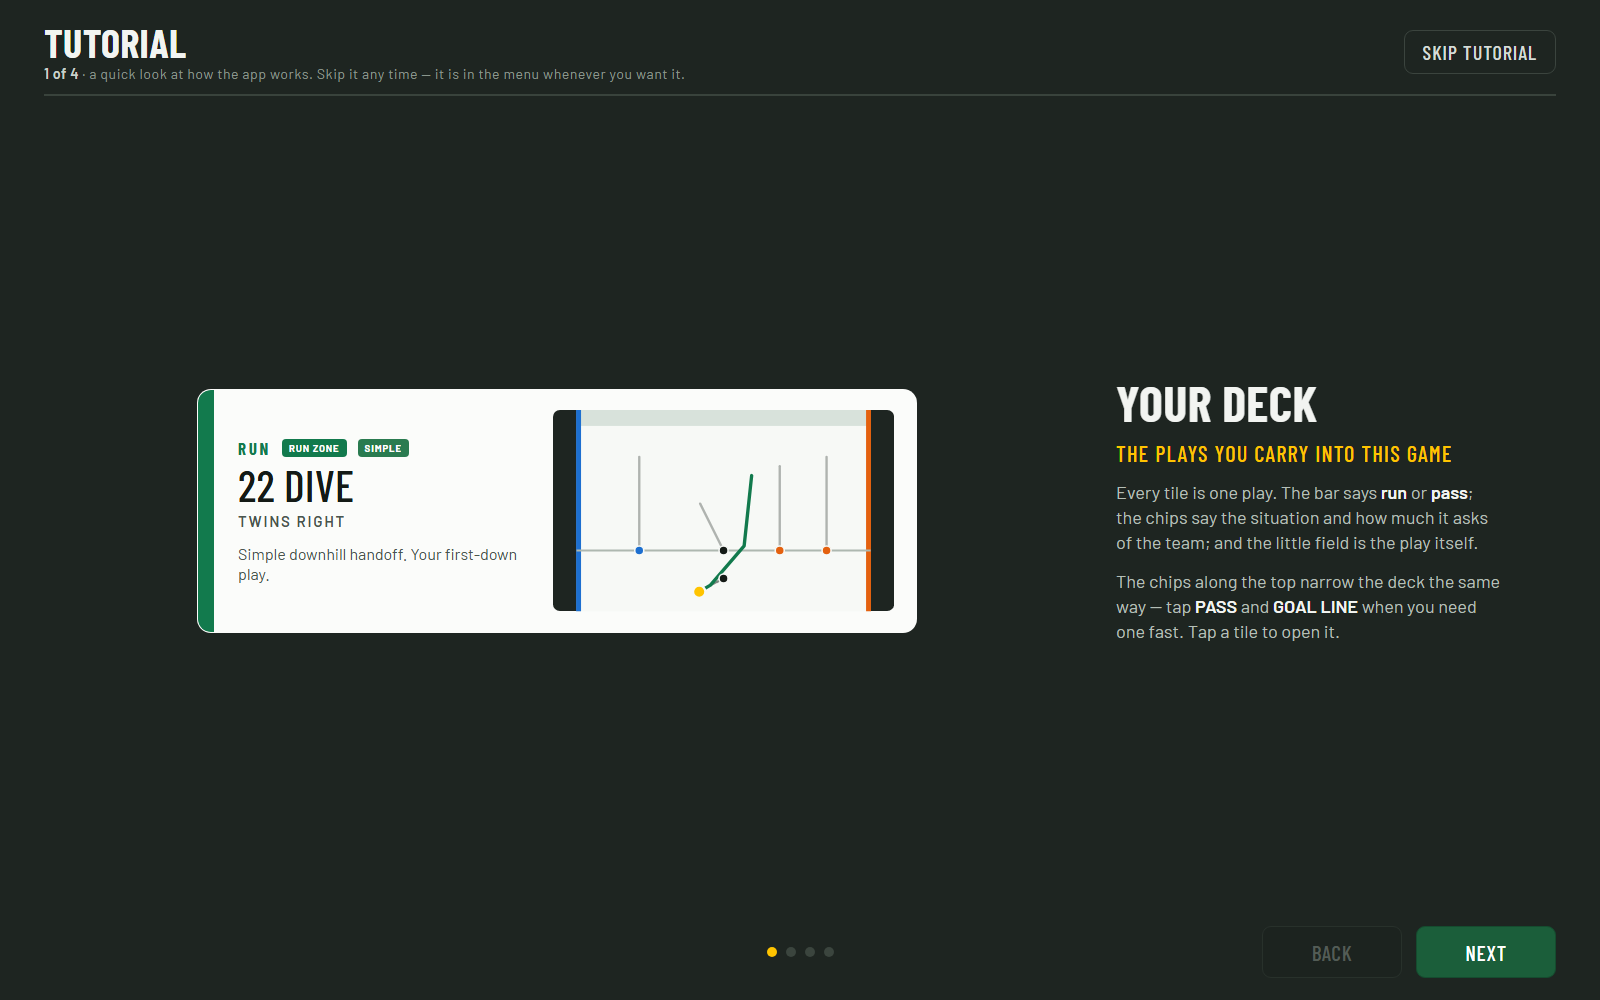
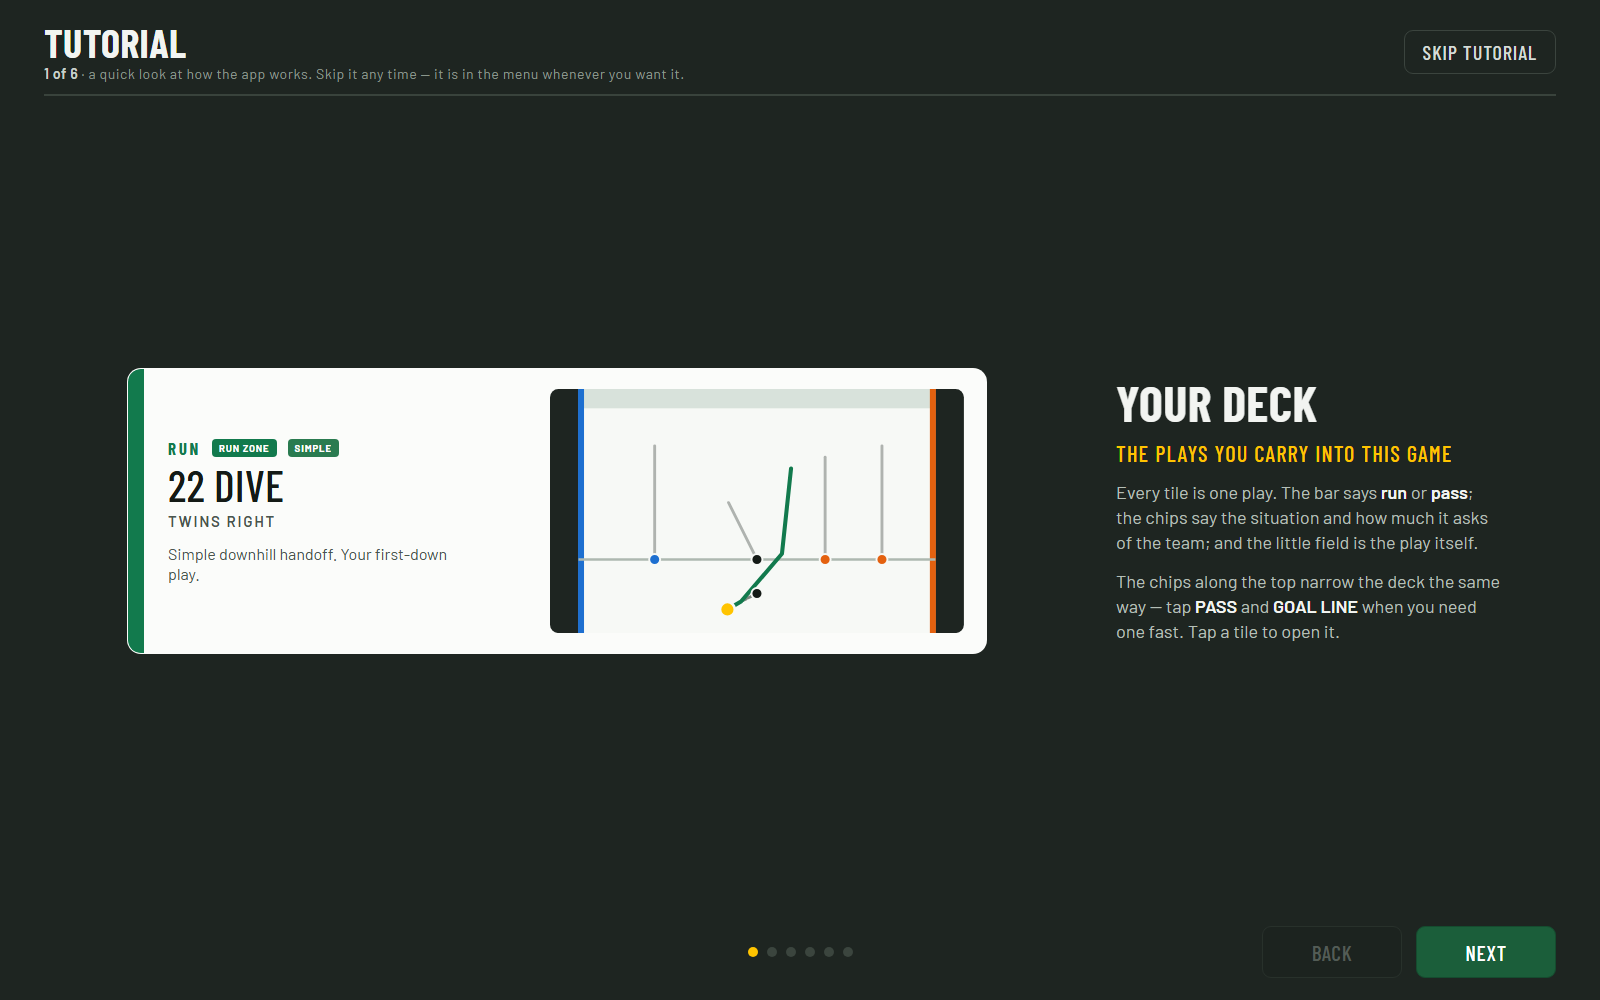
feat: expand the tutorial to six slides
Slide 1's tile is bigger, slide 2 now animates the real play field
instead of a static picture (buildScene/frame reused via
startTourField), and two new slides show the real pack strip and a
slice of Setup so a coach sees Change plays and Setup before ever
opening the menu.

Claude-Session: https://claude.ai/code/session_01FqjHfXdjYsf7v1tdtufotJ

Changed region(s): [[0.0625, 0.341, 0.625, 0.651], [0.0625, 0.062, 0.4375, 0.093], [0.4688, 0.93, 0.5, 0.961]]

diff --git a/huddle_src.html b/huddle_src.html
@@ -476,14 +476,24 @@ button:focus-visible{outline:3px solid var(--green);outline-offset:2px}
   justify-content:center;pointer-events:none}
 .tourart>*{max-width:100%;max-height:100%}
 /* a real tile, sized to its box like one on the deck — the container query on
-   .tile does the work, so the name scales with the card */
-.tourart .tile{width:min(100%,720px);cursor:default}
+   .tile does the work, so the name scales with the card. Bigger than the
+   grid ever shows one, because this is the one screen where a single play
+   gets the whole box to itself. */
+.tourart .tile{width:min(100%,860px);cursor:default}
 .tourart .tile:active{transform:none;box-shadow:none}
 .tourart>.thumbsvg{width:min(100%,720px);border-radius:12px;border:1.5px solid #39433C}
 /* the marker legend, in the play screen's own colours */
 .tourmark{width:min(100%,720px);display:block}
 .tourmark text{font-family:var(--disp);font-weight:700;font-size:17px;letter-spacing:.06em;
   text-anchor:middle}
+/* the real field, at the real play screen's own aspect ratio (1140:672, the
+   same ratio thumbSVG's viewBox already used, on purpose) so it drops into
+   the same box the static thumbnail used to fill. It runs the real
+   buildScene()/frame() loop — see startTourField() — so this is not a
+   recording of the animation, it is the animation. */
+.tourfield{width:min(100%,720px);aspect-ratio:1140/672;position:relative;
+  border-radius:12px;border:1.5px solid #39433C;overflow:hidden;background:var(--oob)}
+.tourfield #field{width:100%;height:100%;display:block;overflow:visible}
 /* the menu, drawn open and in place instead of over the tiles, with a clock
    beside it — the two things in the top bar a coach reaches for between plays */
 .tourmenu{display:flex;align-items:flex-start;gap:clamp(14px,2vw,28px);
@@ -492,6 +502,14 @@ button:focus-visible{outline:3px solid var(--green);outline-offset:2px}
 .tourmenu .menu{position:static;box-shadow:none;min-width:210px}
 .tourmenu .menu button.on{background:#2F3833;color:#fff}
 .tourmenu .clock{pointer-events:none}
+/* the pack strip and a slice of Setup, both the real classes — .pack, .seg,
+   .setrow — boxed the same way the menu preview is, since none of these
+   screens has a natural "card" edge of its own to borrow. */
+.tourpacks,.toursettings{width:min(100%,640px);display:flex;flex-direction:column;
+  gap:clamp(8px,1.4vh,14px);padding:clamp(14px,2.4vh,22px);border:1.5px solid #39433C;
+  border-radius:16px;background:#1A211D}
+.tourpacks .packs{padding-top:0}
+.toursettings .setrow{gap:clamp(10px,1.6vw,20px)}
 .toursay{flex:0 1 clamp(230px,36%,440px);min-width:0;min-height:0;overflow-y:auto;
   display:flex;flex-direction:column;justify-content:center;gap:clamp(8px,1.4vh,16px)}
 .toursay h1{font-family:var(--disp);margin:0;line-height:1;letter-spacing:.01em;
@@ -1367,6 +1385,36 @@ function tourMenu(){
     </div>
   </div>`;
 }
+/* An empty svg#field the real buildScene()/frame() loop draws into and
+   animates — see startTourField(). Same viewBox ratio as thumbSVG's, on
+   purpose, so it fills exactly the box the old static picture used to. */
+function tourField(){
+  return `<div class="tourfield"><svg id="field" viewBox="0 0 ${VB_W} ${VB_H}"
+    preserveAspectRatio="xMidYMid meet"></svg></div>`;
+}
+/* A slice of the real pack strip from Change plays — the actual .pack
+   buttons, the actual weeks, actual play counts. Inert: .tourart already
+   turns off pointer-events for the whole slide. */
+function tourPacks(){
+  const list = packsNow().filter(k => k.plays.every(knownPlay));
+  const cur = list.find(k => sameDeck(k.plays, deck));
+  return `<div class="tourpacks"><div class="packs">
+    ${list.map(k => `<button class="pack ${cur && cur.id === k.id ? "on" : ""}" tabindex="-1">
+      ${k.mine ? `<span class="pmark">&#9998;</span>` : ""}${esc(k.name)}<span class="n">${k.plays.length}</span></button>`).join("")}
+    <button class="pack pverb" tabindex="-1">Save deck</button>
+  </div></div>`;
+}
+/* A slice of the real Setup screen — the actual .setrow/.seg markup and the
+   tablet's actual settings, not a mockup of them. */
+function tourSettings(){
+  const rows = [
+    ["Clock length", seg("clockSecs", CFG_CHOICES.clockSecs.map(s => [s, s + "s"]))],
+    ["Play names", seg("funNames", [[true,"Fun"],[false,"Real"]])],
+    ["Buzz the tablet", seg("vibrate", [[true,"On"],[false,"Off"]])],
+  ];
+  return `<div class="toursettings">${rows.map(([t, c]) =>
+    `<div class="setrow"><div class="setlab"><b>${t}</b></div>${c}</div>`).join("")}</div>`;
+}
 function tourSlides(){
   const p = inDeck()[0] || DATA.plays[0];
   return [
@@ -1375,27 +1423,55 @@ function tourSlides(){
        the situation and how much it asks of the team; and the little field is the play itself.</p>
        <p>The chips along the top narrow the deck the same way &mdash; tap <b>PASS</b> and
        <b>GOAL LINE</b> when you need one fast. Tap a tile to open it.</p>`},
-    {title: "Turn it around", sub: "Line them up, then run it", art: thumbSVG(p),
+    {title: "Turn it around", sub: "Line them up, then run it", art: tourField(), field: p,
      text: `<p>A play opens on <b>LINE UP</b>: where each kid stands, with every job on the
        strip underneath. Turn the tablet around and show them.</p>
-       <p><b>RUN IT</b> draws the routes and the ball. <b>MIRROR</b> swaps the players to the
-       other side &mdash; the field stays put &mdash; so every play is two looks.</p>`},
+       <p>This is <b>RUN IT</b>, looping on its own so you can see it before you ever open a
+       play. <b>MIRROR</b> swaps the players to the other side &mdash; the field stays put
+       &mdash; so every play is two looks.</p>`},
     {title: "One kid at a time", sub: "Blue and orange, never left and right", art: tourMarkers(),
      text: `<p>Tap any player on the field and the screen shows only his job. Nobody out
        there is a letter: a circle is a receiver, a diamond a back, the hexagon throws
        and the square snaps, each in his colour.</p>
        <p>Every route is one of nine shapes &mdash; GO, OUT, IN, SIT, CORNER, POST, WHEEL,
        SWING, CARRY &mdash; and a kid with no job runs GO.</p>`},
+    {title: "Start from a plan", sub: "Six weeks of plays, ready to go", art: tourPacks(),
+     text: `<p><b>Change plays</b> in the menu opens the library. Tap any play to add or
+       drop it from your deck, or the pencil on its row to give it your own name.</p>
+       <p>The strip along the bottom is a week at a time. Tap one and it <b>replaces</b>
+       your whole deck &mdash; two taps, so a stray thumb costs nothing &mdash; or tap
+       <b>Save deck</b> to keep the one you built in a week of your own.</p>`},
+    {title: "Make it yours", sub: "The clock, the names, and syncing tablets", art: tourSettings(),
+     text: `<p><b>Setup</b> in the menu holds the clock length and its warning, whether the
+       tablet buzzes, and whether a play shows its real name or the one the kids shout.</p>
+       <p><b>Sync tablets</b>, lower down, sends all of it &mdash; your deck, your names,
+       your weeks &mdash; to an assistant coach's tablet with the radio off.</p>`},
     {title: "Between series", sub: "The clock and the menu", art: tourMenu(),
      text: `<p>The clock counts down from the whistle and buzzes at the warning. Tap it to
        start it; the &times; beside it stops it.</p>
-       <p>The menu holds what you do with nobody waiting. <b>Change plays</b> swaps the
-       deck or starts from a week. <b>Setup</b> is the clock, the names, and syncing
-       another tablet. <b>Tutorial</b> brings this back.</p>`},
+       <p>The menu is where all of that lives &mdash; <b>Change plays</b>, <b>Setup</b>, and
+       <b>Tutorial</b> to bring this back &mdash; because none of it is something you do
+       with six kids waiting.</p>`},
   ];
+}
+/* Puts the real play-screen field into the tour and starts the real
+   animation loop over it — frame() keeps running it as long as
+   tourFieldOn stays true. Nulled out whenever the slide changes, in
+   renderTour(), so the loop stops the moment the field leaves the screen. */
+let tourFieldOn = false;
+function startTourField(play){
+  S.play = play;
+  S.tl = buildTimeline(play);
+  S.stage = "run";
+  S.solo = null;
+  mTarget = mAnim = 0;
+  S.t0 = performance.now();
+  buildScene();
+  tourFieldOn = true;
 }
 function renderTour(first, at = 0){
   S.screen = "tour";
+  tourFieldOn = false;
   const slides = tourSlides(), n = slides.length;
   const i = Math.max(0, Math.min(n - 1, at)), s = slides[i], last = i === n - 1;
   app.innerHTML = `
@@ -1425,6 +1501,7 @@ function renderTour(first, at = 0){
         </div>
       </div>
     </div>`;
+  if (s.field) startTourField(s.field);
   const leave = how => {
     markTourSeen();
     logEvent("tour_done", {how, slide: i + 1, first});
@@ -2315,7 +2392,8 @@ function buildScene(){
 function frame(now){
   requestAnimationFrame(frame);
   paintClock();
-  if (S.screen !== "play" || !SC) return;
+  const onField = S.screen === "play" || (S.screen === "tour" && tourFieldOn);
+  if (!onField || !SC) return;
 
   const k = REDUCED ? 1 : 0.085;
   const wasMirrored = mAnim > 0.5;

diff --git a/tests/HuddleBoard.Tests/TutorialChecks.cs b/tests/HuddleBoard.Tests/TutorialChecks.cs
@@ -4,7 +4,7 @@ using System.Text.Json.Serialization;
 namespace HuddleBoard.Tests;
 
 /// <summary>
-/// The tutorial: four slides between the first START and the deck, once, and
+/// The tutorial: six slides between the first START and the deck, once, and
 /// in the menu after that.
 /// </summary>
 /// <remarks>
@@ -88,7 +88,7 @@ public sealed class TutorialChecks(AppFixture app)
             await page.ClickAsync("#tournext");
             await page.WaitForTimeoutAsync(150);
         }
-        Assert.InRange(slides, 3, 4);
+        Assert.Equal(6, slides);
 
         await page.ClickAsync("#tournext");
         await page.WaitForSelectorAsync(".deck");

diff --git a/CLAUDE.md b/CLAUDE.md
@@ -284,18 +284,26 @@ one verb cancelling the other, and Start over; `SyncChecks` carries a name
 across two tablets and feeds it markup.
 
 **12. The first START goes through the tutorial, once.** The app grew past
-what one sentence on the intro could carry — chips, mirror, tap-a-kid, the
-menu — so a fresh tablet's first START lands on four slides (`renderTour`) on
-its way to the deck: the coach's own first tile, that play's picture, the
-marker shapes, and the menu, each beside a few sentences. Every picture is the
-real thing drawn by the real code (`tourTile`, `thumbSVG`, `tourMarkers`,
-`tourMenu`), so a slide cannot drift from the screen it describes. It is the
-coach's screen and never the one turned around at the kids, so text is fine
-there. The title row says TUTORIAL in the deck's own heading size, with "1 of
-4" and the way out — **Skip tutorial**, or **Close** from the menu — in the top
-right where Settings keeps its Done; a small "How it works" up there was not
-enough for a coach to tell he was in a walkthrough rather than the app, or
-that he was allowed to leave it. Skip and the last slide's Go to deck both mark it seen, under
+what one sentence on the intro could carry — chips, mirror, tap-a-kid, packs,
+Setup, the menu — so a fresh tablet's first START lands on six slides
+(`renderTour`) on its way to the deck: the coach's own first tile, that play
+running, the marker shapes, a week of the pack strip, a slice of Setup, and
+the menu, each beside a few sentences. Every picture is the real thing drawn
+by the real code (`tourTile`, `tourField`, `tourMarkers`, `tourPacks`,
+`tourSettings`, `tourMenu`), so a slide cannot drift from the screen it
+describes — down to the second slide, which does not draw a picture of the
+play running so much as run it: `startTourField` hands a real play to the
+same `buildTimeline`/`buildScene` the play screen uses and lets the same
+`frame()` loop animate it, gated on a `tourFieldOn` flag so the loop knows to
+stop the moment the slide changes. The tile on the first slide is also
+larger than the deck grid ever shows one, because this is the one screen
+where a single play gets the whole box to itself. It is the coach's screen
+and never the one turned around at the kids, so text is fine there. The title
+row says TUTORIAL in the deck's own heading size, with "1 of 6" and the way
+out — **Skip tutorial**, or **Close** from the menu — in the top right where
+Settings keeps its Done; a small "How it works" up there was not enough for a
+coach to tell he was in a walkthrough rather than the app, or that he was
+allowed to leave it. Skip and the last slide's Go to deck both mark it seen, under
 `localStorage` `hb.tour` — a coach who skipped has said he does not want it,
 and **Tutorial** in the hamburger brings it back whenever he does. The flag is
 per tablet and not in the sync file: the assistant's tablet is still his first
